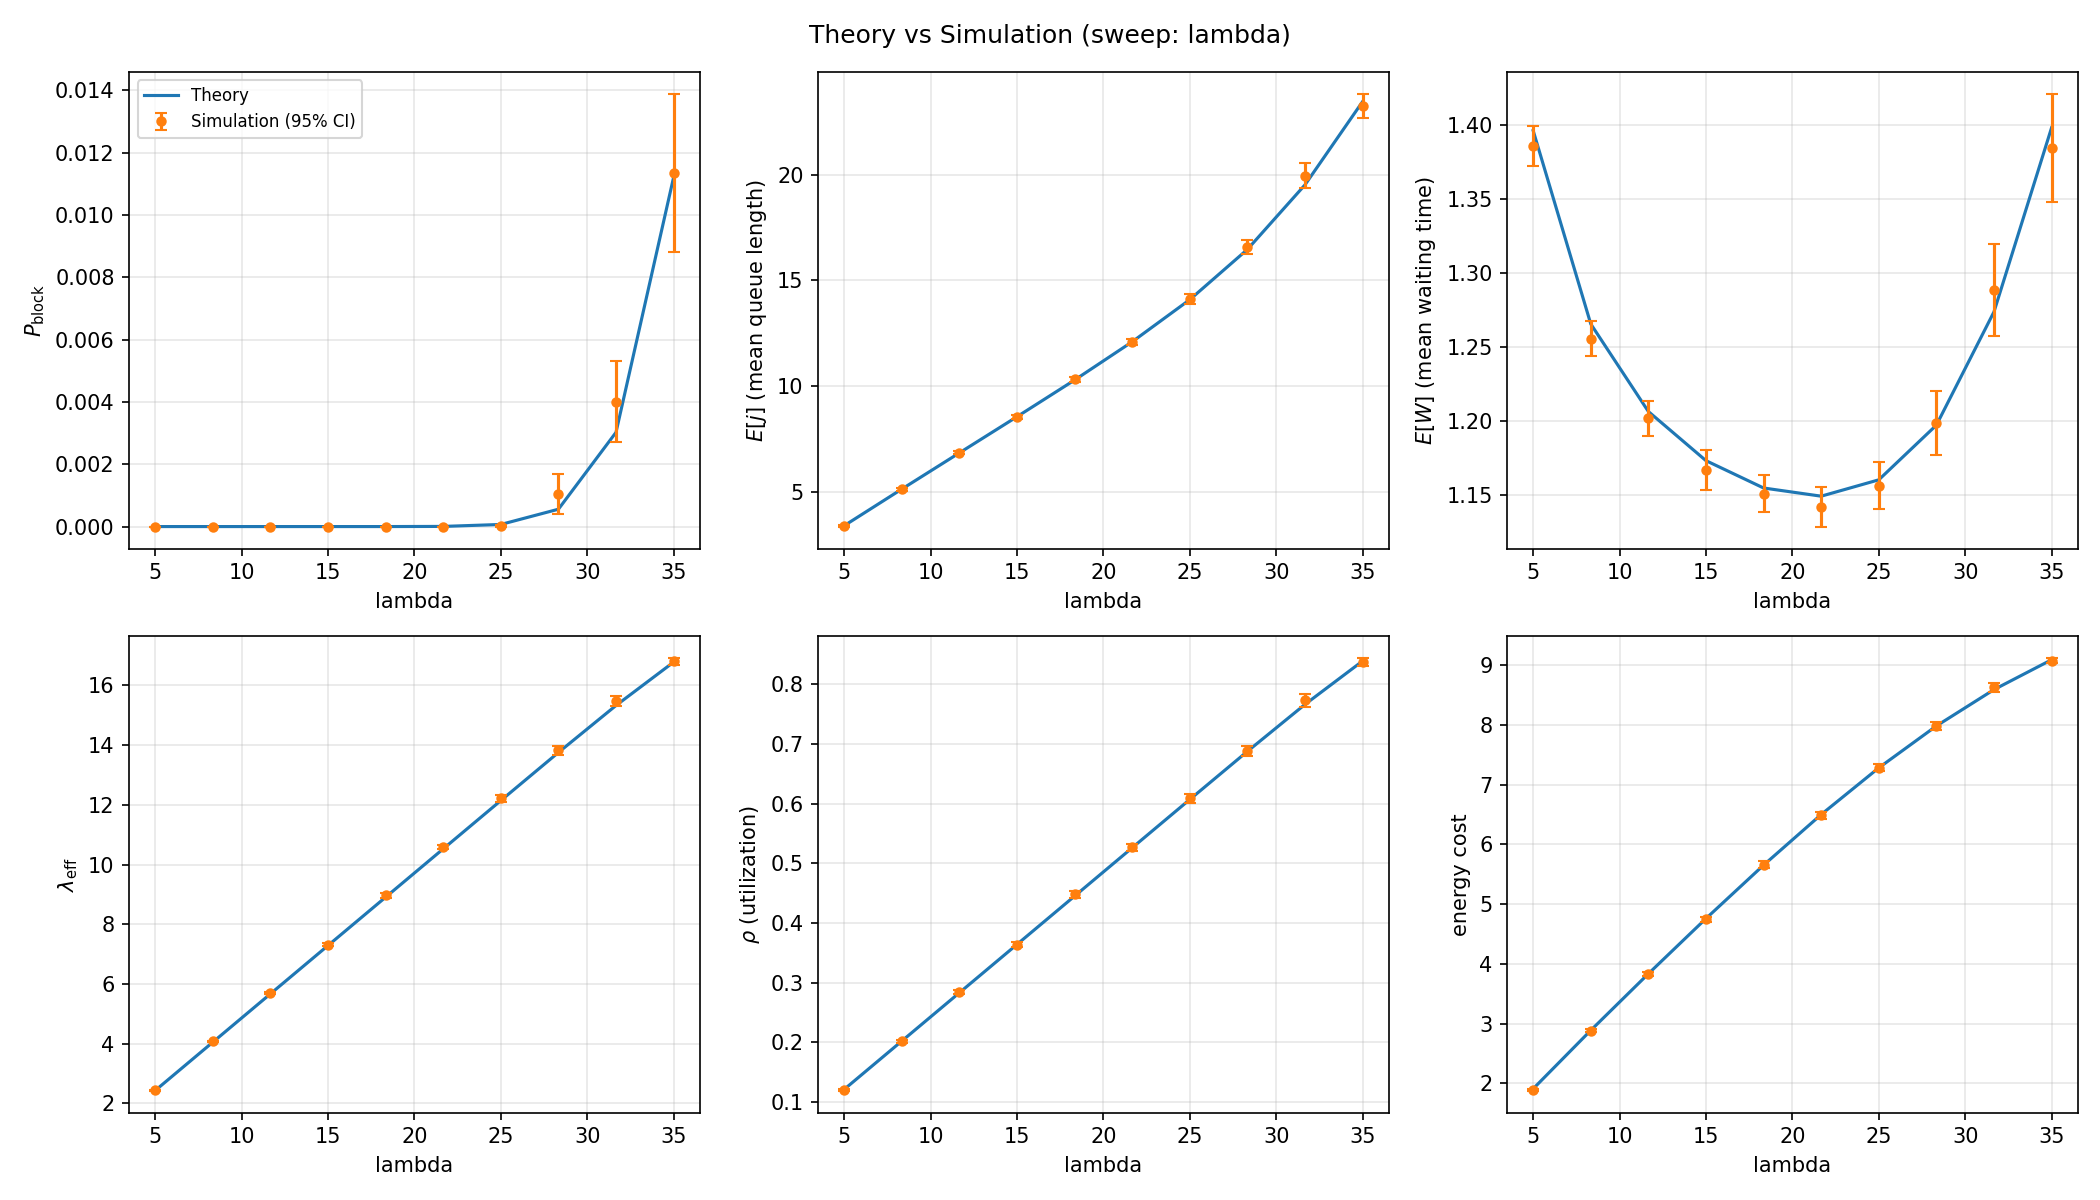
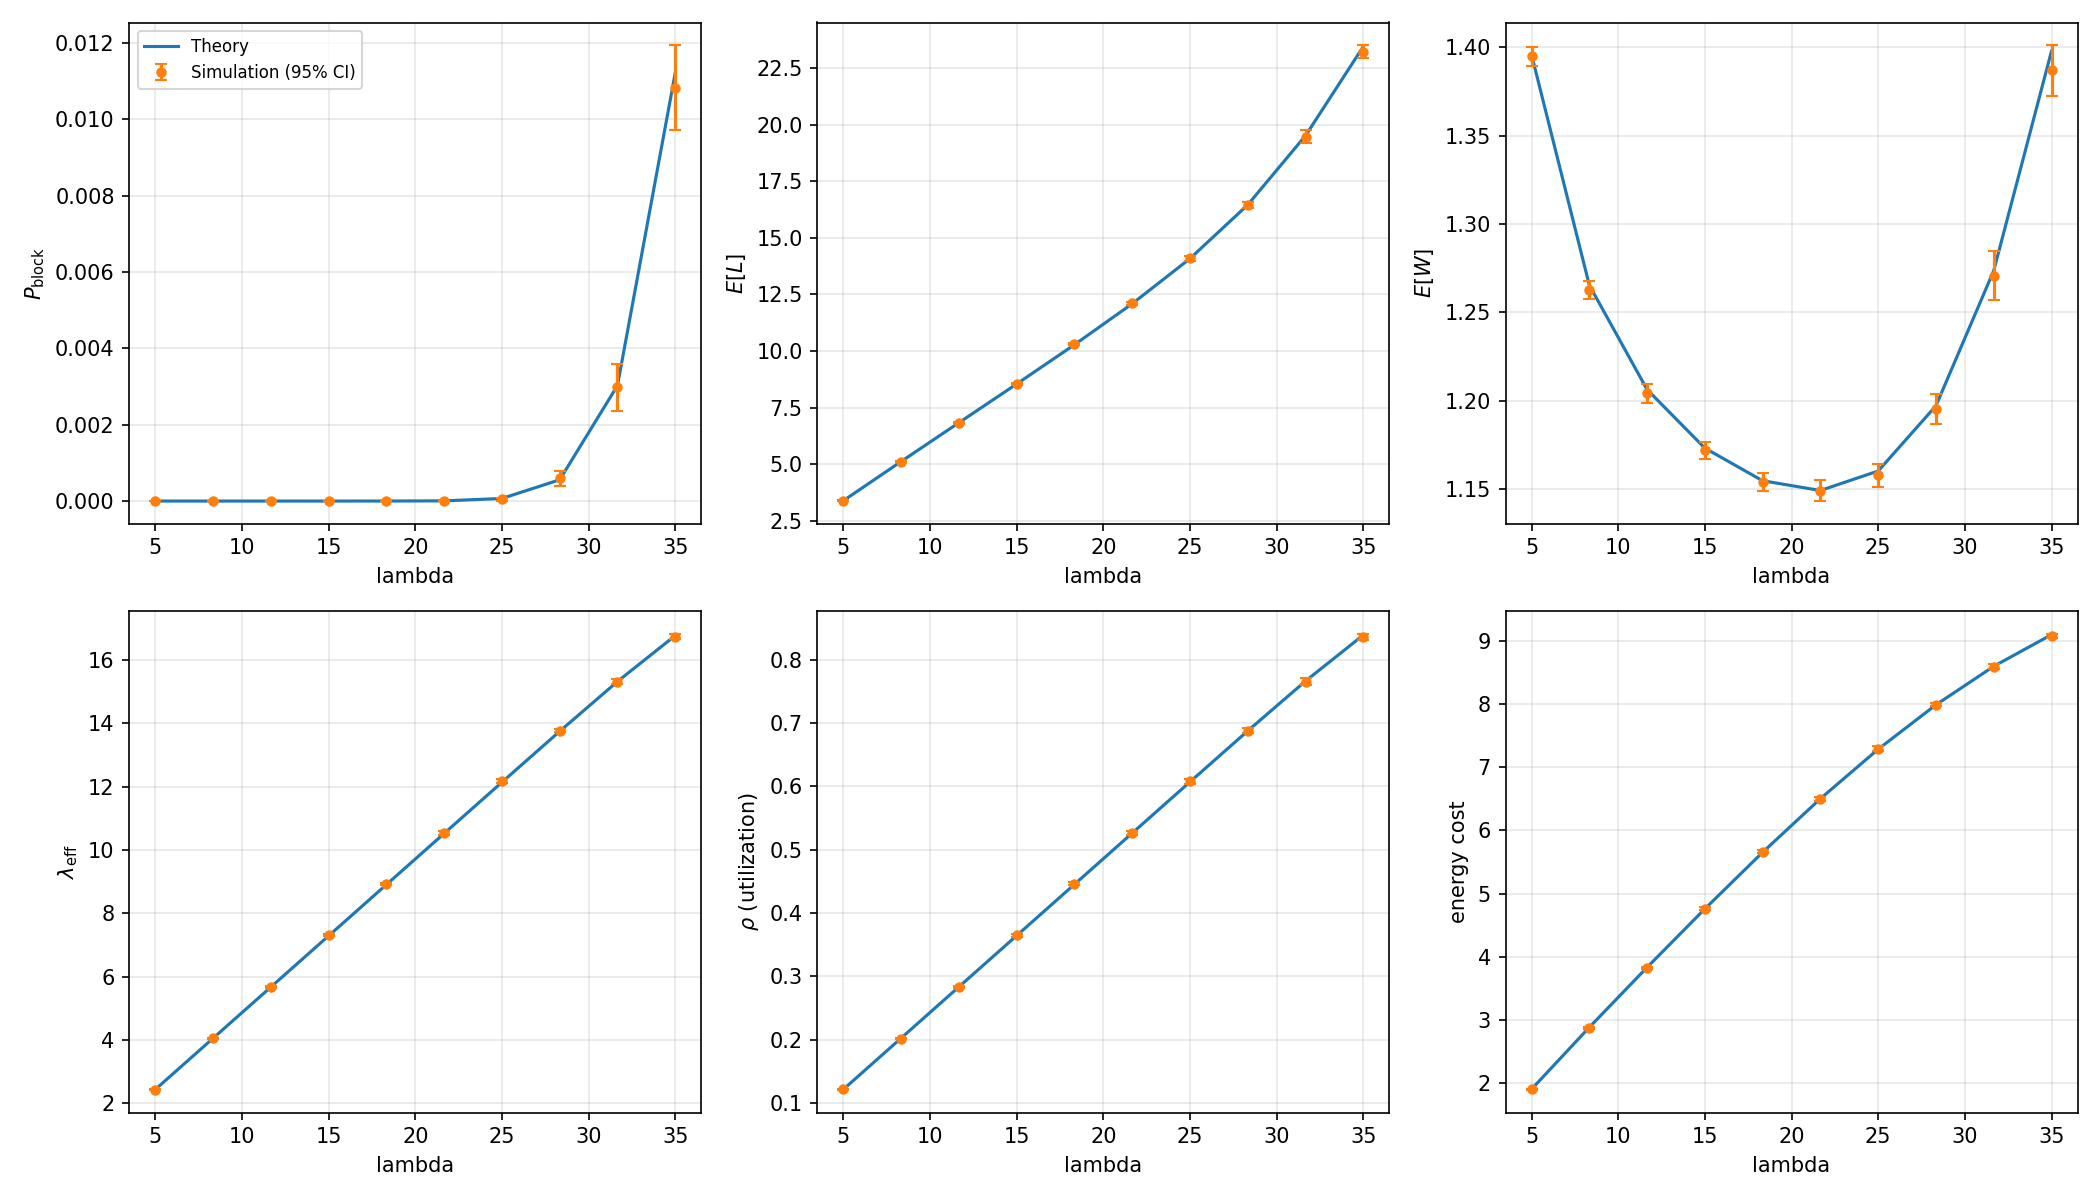
理論解析とシミュレーション比較

diff --git a/scripts/compare_theory_sim.py b/scripts/compare_theory_sim.py
@@ -44,8 +44,8 @@ SWEEP_RANGES: Dict[str, Tuple[float, float]] = {
 #     文字化け (tofu box) を避けるため英語表記にする (コード自体のコメントは日本語のまま).
 METRIC_SPECS: List[Tuple[str, str, str]] = [
     ("P_block", "blocking_probability", r"$P_{\mathrm{block}}$"),
-    ("E[j]", "mean_queue_length", r"$E[j]$ (mean queue length)"),
-    ("E[W]", "mean_waiting_time", r"$E[W]$ (mean waiting time)"),
+    ("E[L]", "mean_queue_length", r"$E[L]$"),
+    ("E[W]", "mean_waiting_time", r"$E[W]$"),
     ("lambda_eff", "effective_arrival_rate", r"$\lambda_{\mathrm{eff}}$"),
     ("rho", "utilization", r"$\rho$ (utilization)"),
     ("energy_cost", "energy_cost", "energy cost"),
@@ -113,8 +113,8 @@ def parse_args() -> argparse.Namespace:
         help="スイープするパラメータ名",
     )
     parser.add_argument("--n-points", type=int, default=10, help="スイープ点数")
-    parser.add_argument("--warmup-events", type=int, default=20_000)
-    parser.add_argument("--measurement-events", type=int, default=200_000)
+    parser.add_argument("--warmup-events", type=int, default=100_000)
+    parser.add_argument("--measurement-events", type=int, default=1_000_000)
     parser.add_argument("--n-batches", type=int, default=30)
     parser.add_argument("--seed", type=int, default=42)
     parser.add_argument("--out-dir", default="figures")
@@ -174,7 +174,6 @@ def _plot(
         ax.grid(alpha=0.3)
 
     axes.flat[0].legend(loc="best", fontsize=8)
-    fig.suptitle(f"Theory vs Simulation (sweep: {args.sweep})")
     fig.tight_layout()
 
     os.makedirs(args.out_dir, exist_ok=True)

diff --git a/mmpp_sim/stats.py b/mmpp_sim/stats.py
@@ -17,13 +17,19 @@ class SimStats:
     """時間重み付き統計を蓄積するクラス."""
 
     def __init__(self) -> None:
+        # 辞書。キーは状態 (i, j, F) 、値はその状態に滞在した累積時間。\{(0,0,0): 12.3, (1,0,0): 8.5, \ldots\} のような形。
         self.state_duration: Dict[Tuple[int, int, int], float] = defaultdict(float)
+        # 記録期間の総時間 T
         self.total_duration: float = 0.0
+        # 到着 attempt の総回数(ブロックされたものも含む)。
         self.arrival_attempts: int = 0
+        # そのうちブロックされた回数。
         self.arrival_blocked: int = 0
+        # departure したジョブの滞在時間の総和。
         self.departure_sojourn_sum: float = 0.0
+        # departure したジョブの総数。
         self.departure_count: int = 0
-        # batch means 法用の子 SimStats のリスト (Simulator.run() が設定する)
+        # 信頼区間計算用に、記録期間を分割した子 SimStats のリスト。
         self.batches: List["SimStats"] = []
         # record_state 呼び出し回数 (= 記録されたイベント数. ウォームアップ除外の検証用)
         self.n_records: int = 0

diff --git a/mmpp_sim/event.py b/mmpp_sim/event.py
@@ -36,6 +36,7 @@ class EventQueue:
 
     同時刻イベントの比較時に EventType/metadata の比較エラーが起きないよう,
     単調増加カウンタをタイブレークキーとして併用する.
+    将来的にイベント駆動方式(未来のイベントをキューに積む方式)に切り替える可能性を残したデッドコード
     """
 
     def __init__(self) -> None:
